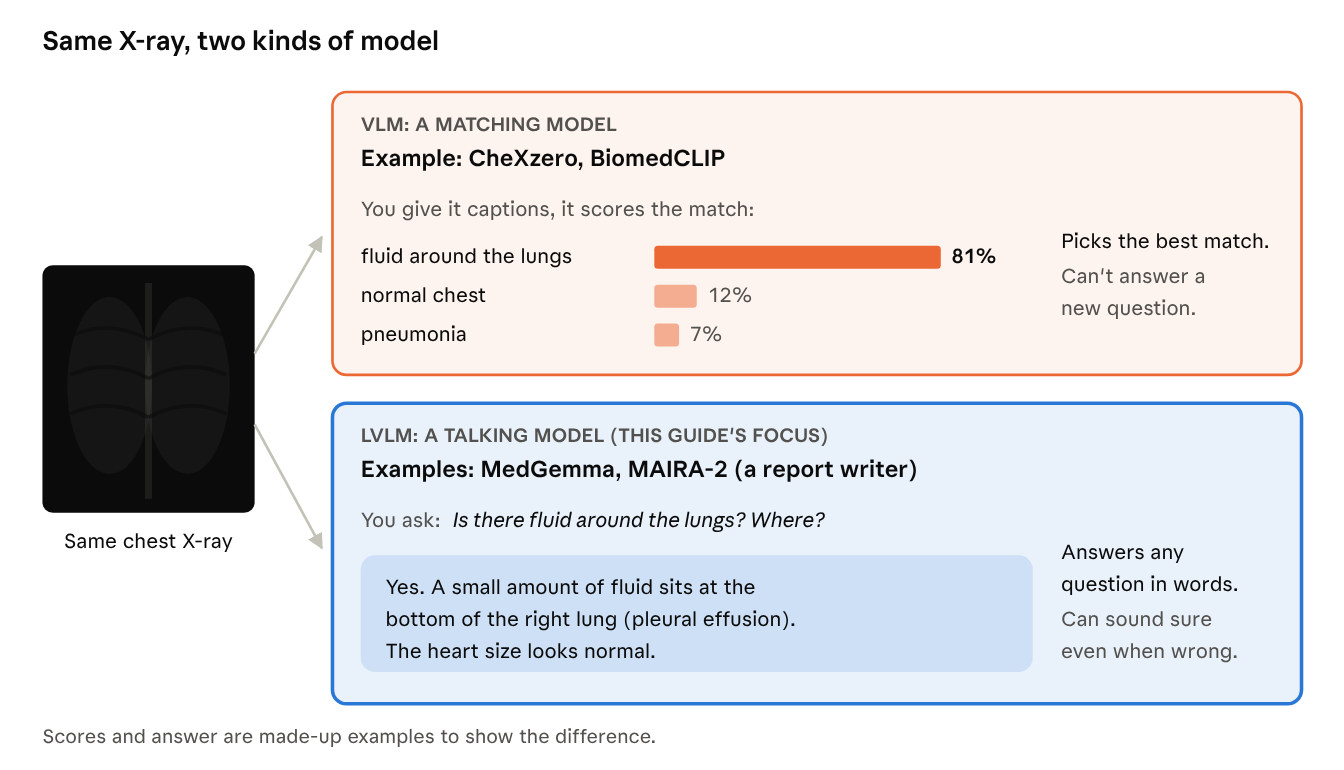
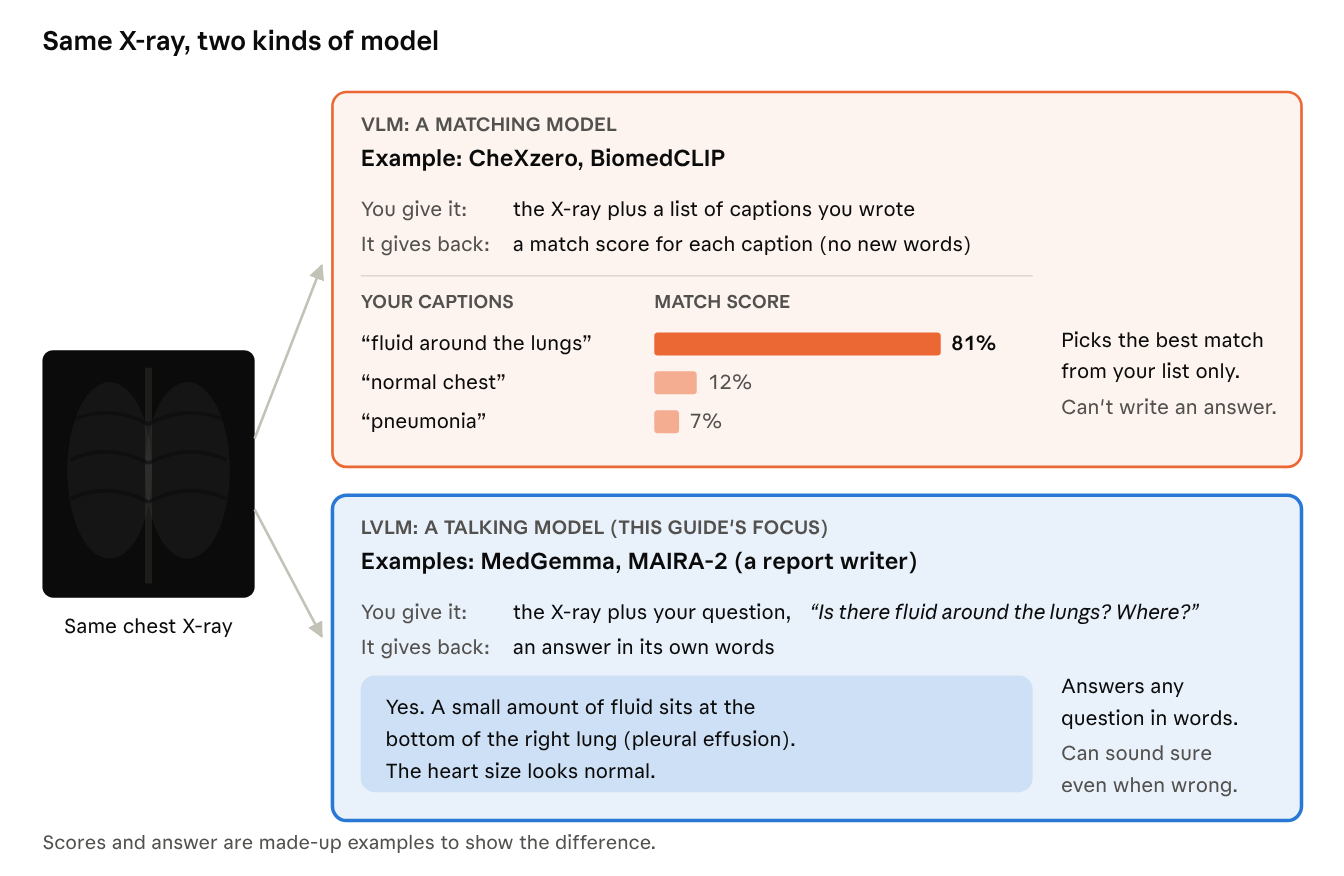
Clarify VLM inputs/outputs and explain full vs. cached inference
Claude-Session: https://claude.ai/code/session_01EnVsTeAymFW5udjhv2AJ2k

diff --git a/presentation/index.html b/presentation/index.html
@@ -100,7 +100,7 @@
     <img class="diagram" src="../docs/images/02-vlm-vs-lvlm.png" alt="Same chest X-ray: a matching VLM scores captions you give it; an LVLM like MedGemma answers your question in words">
     <aside class="notes">
       A VLM is any AI that connects pictures and words. Same X-ray, two kinds of model.
-      Top: a matching model like CheXzero or BiomedCLIP. You hand it captions and it scores how well each one fits. It picks the best match, but it can't answer a question you didn't write a caption for.
+      Top: a matching model like CheXzero or BiomedCLIP. You give it two things, the X-ray and a list of captions you wrote, and it gives back a match score for each caption. It never writes new words. It picks the best match, but it can't answer a question you didn't write a caption for.
       Bottom: a large VLM, an LVLM, like MedGemma or MAIRA-2, which is built to write chest X-ray reports. It's built on a chatbot-style language model, so you ask anything and it answers in words. Much more useful, but it can also sound confident when it's wrong. That's the kind this talk is about.
       The numbers and the answer here are made-up examples. How these models work inside is in the lab's onboarding VLM path.
     </aside>
@@ -189,7 +189,7 @@
     <aside class="notes">
       Two real examples where tiny wording changes flipped the result.
       First, chest X-ray with CheXagent. The fluid is on the patient's left. When the prompt said "locate RIGHT pleural effusion," the model boxed the right side anyway: it followed the words, not the image. The model becomes biased when the prompt hands it the answer: give it a detail like the side, and it tends to go along with what we gave it instead of checking the image. That's called anchoring. When we hid the side and just said "locate pleural effusion," it boxed the correct side. Lesson: when you use a model to check a claim, don't put the claim in the prompt. Ask neutrally, then compare.
-      Second, lung CT with NV-Reason-CT. Same case, same prompt, and the same result with thinking on or off. Lowercase "atelectasis" got Yes; capital "Atelectasis" got No, with or without the cached CT context. Models read text as tokens, so a capital letter can look like a different word. Lesson: fix your exact prompt text and test small variants on purpose.
+      Second, lung CT with NV-Reason-CT. Same case, same prompt, and the same result with thinking on or off. Lowercase "atelectasis" got Yes; capital "Atelectasis" got No, both with full inference, where the model reads the whole CT fresh each time, and with the cached CT context, where it reads the CT once and reuses that saved work. Models read text as tokens, so a capital letter can look like a different word. Lesson: fix your exact prompt text and test small variants on purpose.
       Each is a single case, a warning sign to test for, not a measured error rate. The big message: prompt testing is a critical step, and it takes many rounds to reach the accuracy you need. These are just two traps; there are more.
     </aside>
   </section>

diff --git a/docs/guide.md b/docs/guide.md
@@ -117,7 +117,7 @@ The wording of the question alone can change the score. The notebook's optional 
 
 Two rules keep the comparison honest. Use enough images (25 + 25 per set, not 20 in total), so a "win" isn't just luck. And never pick the winner and grade it on the same images: choose on a tuning set, then confirm on fresh images it has never seen.
 
-**Two real examples from our projects.** Small wording changes flipped real results in both of my pipelines.
+**Two real examples from our projects.** Small wording changes flipped real results in both of my pipelines. In example 2, the model was run two ways. "Full inference" means it reads the whole CT scan fresh along with each question. "Cached CT context" means it reads the scan once, saves that work, and reuses it for the next question, which is faster. The capital letter flipped the answer both ways.
 
 ![Prompt testing is a critical step: expect many rounds to reach the accuracy you need. These are just two traps; there are more, so test your own prompts on purpose.](images/22-prompt-testing-flash.png)
 
